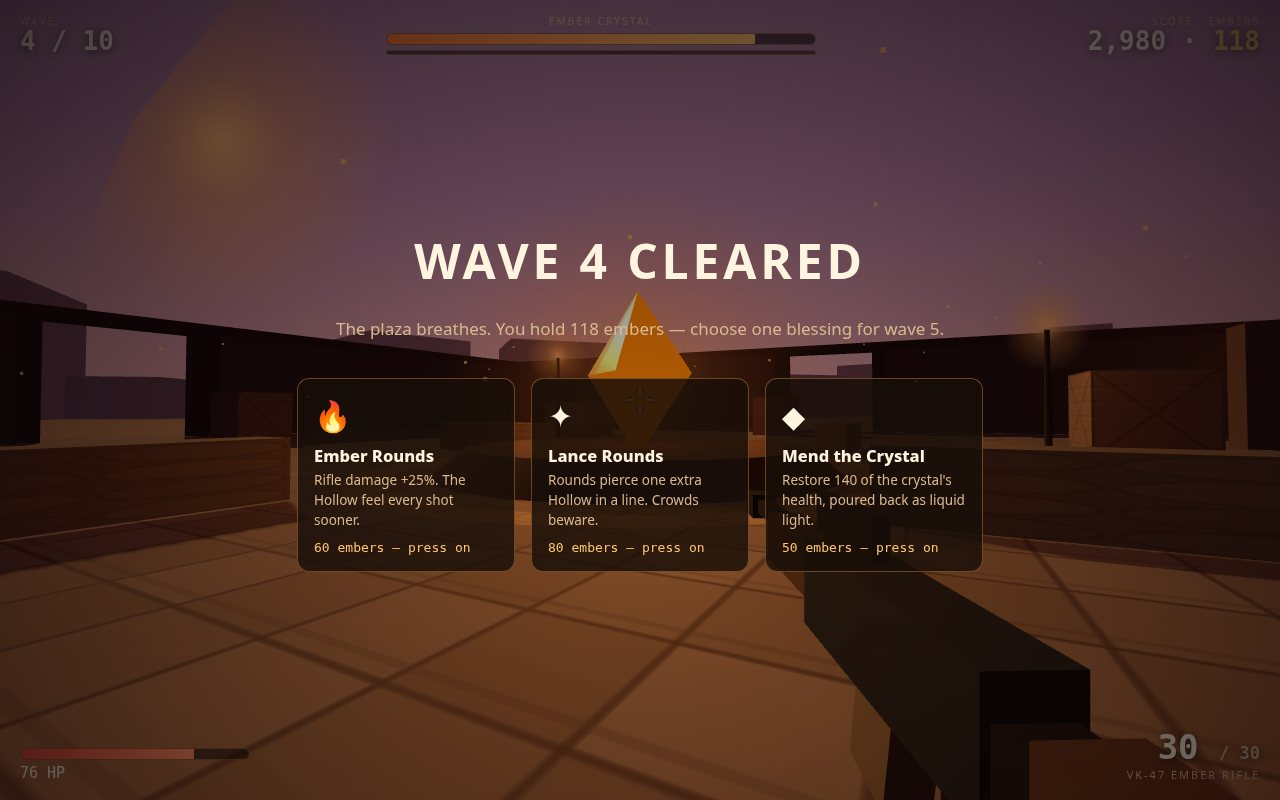
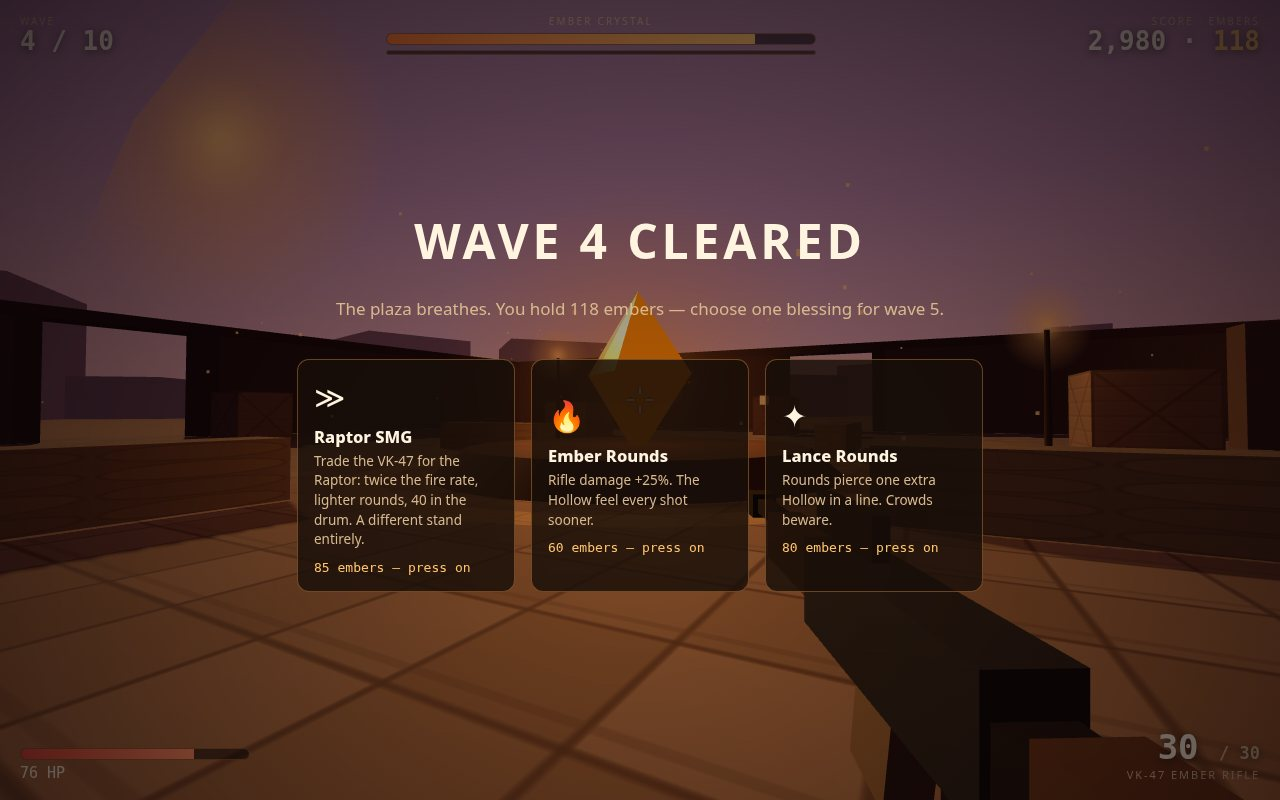
v2: the Hollow King boss in wave 10, the Raptor SMG draft trade, boss-fight cover

diff --git a/game/src/main.js b/game/src/main.js
@@ -119,7 +119,8 @@ function resolveShot() {
         hud.setScore(game.score, game.embers);
         sfx.kill();
         weapon.burst(_point, 14, 0xff7a30);
-        if (e.kind === 'brute') hud.feed(`Brute down — <b>+${paid} embers</b>`);
+        if (e.kind === 'king') { hud.feed(`👑 <b>THE HOLLOW KING FALLS — +${paid} embers</b>`); weapon.burst(_point, 30, 0xff7a30); }
+        else if (e.kind === 'brute') hud.feed(`Brute down — <b>+${paid} embers</b>`);
         scene.remove(e.group);
       } else {
         hud.hitmark(false);
@@ -140,6 +141,18 @@ const enemyCtx = {
   get solids() { return world.solids; },
   get enemies() { return game.enemies; },
   get time() { return game.time; },
+  summon(king) {
+    // The King's called husks join the wave properly: they count toward its total,
+    // so the wave cannot end while the court still stands.
+    for (const side of [-1, 1]) {
+      const at = king.group.position.clone();
+      at.x += side * 2.6; at.z += 1.2;
+      game.enemies.push(createHollow(scene, 'husk', at, game.hpScale));
+      game.waveTotal += 1;
+    }
+    if (!king.announced) { king.announced = true; hud.feed('👑 <b>The Hollow King calls his court!</b>'); }
+    sfx.horn();
+  },
   shootBolt(e, target) {
     const from = e.group.position.clone();
     from.y += 1.55 * e.def.scale;
@@ -182,7 +195,7 @@ function startWave(n) {
   enemyCtx.warned = false;
   hud.setWave(n, TOTAL_WAVES);
   hud.setWaveProgress(0);
-  hud.banner(`WAVE ${n}`, n === 1 ? 'The Hollow come through the gates. Hold the crystal.' : n === TOTAL_WAVES ? 'The last wave. Dawn is close.' : 'They return, angrier.', 2400);
+  hud.banner(`WAVE ${n}`, n === 1 ? 'The Hollow come through the gates. Hold the crystal.' : n === TOTAL_WAVES ? 'The Hollow King comes himself. End him, and dawn breaks.' : 'They return, angrier.', 2400);
   sfx.horn();
 }
 
@@ -195,7 +208,7 @@ function waveCleared() {
   game.mode = 'upgrade';
   sfx.cleared();
   document.exitPointerLock?.();
-  hud.showUpgrades(game.wave, draftUpgrades(3), game.embers, (u) => {
+  hud.showUpgrades(game.wave, draftUpgrades(3, weapon.kind === 'smg' ? new Set(['smg']) : new Set()), game.embers, (u) => {
     game.embers -= u.cost;
     u.apply({ player, weapon, crystal, game });
     hud.setScore(game.score, game.embers);
@@ -225,7 +238,7 @@ function resetGame() {
   clearBolts(scene);
   Object.assign(game, { wave: 0, score: 0, kills: 0, embers: 0, emberMultiplier: 1, spawnQueue: [], waveTotal: 0, waveKilled: 0 });
   crystal.hp = crystal.maxHp;
-  Object.assign(weapon.stats, { ...WEAPON_STATS });
+  weapon.swapTo('rifle'); // a fresh stand starts with the VK-47, blessings forgotten
   weapon.refill();
   player.reset();
   syncCrystal();
@@ -273,18 +286,20 @@ function poseShot(name) {
   }
   hud.showGame();
   if (name === 'cover') {
-    // Wave 3, mid-fight: the keeper south-east of the crystal, Hollow closing in, a
-    // round already on its way to the brute and a soldier's bolt answering.
-    player.pos.set(14.5, 0, 12.5);
-    player.setView(Math.PI * 0.25, -0.02);
-    const spots = [['brute', -4.5, -6], ['soldier', -1.5, -9.5], ['husk', 2.5, -5.5], ['husk', -7, -1], ['husk', 4.5, 3], ['soldier', 8, -5.5]];
+    // Wave 10, the finale: the keeper south-east of the crystal with the Raptor in
+    // hand, the Hollow King himself towering past the crystal with his court around
+    // him, a round already on its way and a soldier's bolt answering.
+    player.pos.set(12, 0, 8.5);
+    player.setView(Math.PI * 0.3, -0.02);
+    weapon.swapTo('smg');
+    const spots = [['king', -10, -3.5], ['brute', -14.5, -7], ['soldier', 0.5, -7.5], ['soldier', -4, -11.5], ['husk', 2.5, -2], ['husk', -5, -3]];
     for (const [kind, x, z] of spots) {
-      const e = createHollow(scene, kind, new THREE.Vector3(x, 0, z), 1.1);
+      const e = createHollow(scene, kind, new THREE.Vector3(x, 0, z), 1.5);
       e.riseT = 1; e.group.position.y = 0;
       e.group.rotation.y = Math.atan2(-x, -z);
       game.enemies.push(e);
     }
-    spawnBolt(scene, new THREE.Vector3(-1.5, 1.6, -9.5), new THREE.Vector3(-0.8, 2.2, -5));
+    spawnBolt(scene, new THREE.Vector3(3, 1.6, -6.5), new THREE.Vector3(1.2, 2.2, -3));
     // The frozen shot: a tracer stretched from the muzzle and the flash that made it,
     // parented to the camera so they sit exactly on the aim line.
     const tracer = new THREE.Mesh(new THREE.BoxGeometry(0.022, 0.022, 13), new THREE.MeshBasicMaterial({ color: 0xffc46b, transparent: true, opacity: .85 }));
@@ -294,14 +309,14 @@ function poseShot(name) {
     flashSpr.scale.setScalar(0.55);
     flashSpr.position.set(0.23, -0.17, -0.85);
     camera.add(flashSpr);
-    game.wave = 3;
-    hud.setWave(3, TOTAL_WAVES);
-    crystal.hp = 390; syncCrystal();
-    hud.setWaveProgress(0.45);
-    hud.setScore(1250, 64);
-    hud.setHp(82, 100);
-    hud.setAmmo(24, 30, false);
-    hud.feed('Brute down — <b>+25 embers</b>');
+    game.wave = 10;
+    hud.setWave(10, TOTAL_WAVES);
+    crystal.hp = 310; syncCrystal();
+    hud.setWaveProgress(0.72);
+    hud.setScore(7900, 214);
+    hud.setHp(68, 100);
+    hud.setAmmo(31, 40, false);
+    hud.feed('👑 <b>The Hollow King calls his court!</b>');
   } else if (name === 'upgrade') {
     player.pos.set(7, 0, 13);
     player.setView(0.49, 0.02);
@@ -311,7 +326,7 @@ function poseShot(name) {
     hud.setScore(2980, 118);
     hud.setHp(76, 100);
     hud.setAmmo(30, 30, false);
-    hud.showUpgrades(4, [UPGRADES[0], UPGRADES[3], UPGRADES[4]], 118, () => {});
+    hud.showUpgrades(4, [UPGRADES[9], UPGRADES[0], UPGRADES[3]], 118, () => {});
   } else if (name === 'end') {
     player.pos.set(6, 0, 12);
     player.setView(0.46, 0.03);

diff --git a/game/src/enemies.js b/game/src/enemies.js
@@ -9,6 +9,7 @@ export const HOLLOW_TYPES = {
   husk: { hp: 40, speed: 4.7, radius: 0.5, scale: 0.92, crystalDamage: 6, playerDamage: 8, attackTime: 0.9, embers: 6, score: 50, ranged: 0 },
   soldier: { hp: 90, speed: 3.1, radius: 0.55, scale: 1.0, crystalDamage: 5, playerDamage: 7, attackTime: 2.2, embers: 10, score: 100, ranged: 15 },
   brute: { hp: 380, speed: 1.75, radius: 0.95, scale: 1.62, crystalDamage: 22, playerDamage: 18, attackTime: 1.5, embers: 25, score: 300, ranged: 0 },
+  king: { hp: 2400, speed: 1.45, radius: 1.5, scale: 2.6, crystalDamage: 40, playerDamage: 26, attackTime: 1.6, embers: 150, score: 1500, ranged: 20 },
 };
 
 const bodyMat = new THREE.MeshStandardMaterial({ color: 0x4a3548, roughness: .92, emissive: 0x140a10 });
@@ -45,7 +46,7 @@ function buildBody(kind) {
     box(g, 0.3, 1.12, 0.34, 0.09, 0.09, 0.62, boneMat); // ember lance, held forward
     box(g, -0.18, 0.33, 0, 0.17, 0.66, 0.19, clothMat);
     box(g, 0.18, 0.33, 0, 0.17, 0.66, 0.19, clothMat);
-  } else {
+  } else if (kind === 'brute') {
     box(g, 0, 1.12, 0, 1.24, 1.1, 0.62, bodyMat); // brute: a wall of a torso
     box(g, 0, 1.92, 0, 0.46, 0.44, 0.46, boneMat);
     box(g, -0.3, 2.2, 0, 0.09, 0.42, 0.09, boneMat).rotation.z = 0.5; // horns
@@ -54,13 +55,25 @@ function buildBody(kind) {
     box(g, 0.78, 0.95, 0, 0.24, 1.15, 0.24, bodyMat);
     box(g, -0.3, 0.36, 0, 0.26, 0.72, 0.28, clothMat);
     box(g, 0.3, 0.36, 0, 0.26, 0.72, 0.28, clothMat);
+  } else {
+    // The Hollow King: a brute's bulk crowned in bone spikes, pauldrons like gate
+    // towers, and a heart-core big enough to aim at from across the plaza.
+    box(g, 0, 1.12, 0, 1.34, 1.18, 0.68, bodyMat);
+    box(g, 0, 1.94, 0, 0.5, 0.48, 0.5, boneMat);
+    for (let i = -2; i <= 2; i++) box(g, i * 0.14, 2.32, 0, 0.07, 0.34 + (2 - Math.abs(i)) * 0.09, 0.07, boneMat).rotation.z = -i * 0.16; // the crown
+    box(g, -0.86, 1.52, 0, 0.34, 0.3, 0.5, clothMat); // pauldrons
+    box(g, 0.86, 1.52, 0, 0.34, 0.3, 0.5, clothMat);
+    box(g, -0.84, 0.92, 0, 0.26, 1.3, 0.26, bodyMat);
+    box(g, 0.84, 0.92, 0, 0.26, 1.3, 0.26, bodyMat);
+    box(g, -0.32, 0.36, 0, 0.28, 0.72, 0.3, clothMat);
+    box(g, 0.32, 0.36, 0, 0.28, 0.72, 0.3, clothMat);
   }
-  const core = new THREE.Mesh(new THREE.OctahedronGeometry(kind === 'brute' ? 0.3 : 0.19), coreMat);
-  core.position.set(0, kind === 'husk' ? 1.08 : 1.14, 0.24);
+  const core = new THREE.Mesh(new THREE.OctahedronGeometry(kind === 'king' ? 0.36 : kind === 'brute' ? 0.3 : 0.19), coreMat);
+  core.position.set(0, kind === 'husk' ? 1.08 : 1.14, kind === 'king' ? 0.38 : 0.24);
   g.add(core);
   for (const sx of [-0.08, 0.08]) {
     const eye = new THREE.Mesh(new THREE.BoxGeometry(0.045, 0.045, 0.02), eyeMat);
-    eye.position.set(sx * (kind === 'brute' ? 1.6 : 1), kind === 'husk' ? 1.36 : kind === 'brute' ? 1.98 : 1.74, kind === 'husk' ? 0.49 : 0.2);
+    eye.position.set(sx * (kind === 'king' ? 1.9 : kind === 'brute' ? 1.6 : 1), kind === 'husk' ? 1.36 : kind === 'king' ? 2.0 : kind === 'brute' ? 1.98 : 1.74, kind === 'husk' ? 0.49 : kind === 'king' ? 0.26 : 0.2);
     g.add(eye);
   }
   g.scale.setScalar(s);
@@ -81,11 +94,12 @@ export function createHollow(scene, kind, at, hpScale = 1) {
     kind, def, group, hp, maxHp: hp, alive: true,
     radius: def.radius, speed: def.speed * (0.92 + Math.random() * 0.16),
     attackCd: 0.6 + Math.random() * 0.6, riseT: 0, wobble: Math.random() * 9,
+    summonCd: 5, announced: false, // the King's court: he calls husks to him
     // Ray test against body and head spheres; returns {t, head} or null.
     hitTest(origin, dir) {
       const s = def.scale;
       let best = null;
-      for (const [cy, r, head] of [[1.02 * s, 0.66 * s, false], [(kind === 'brute' ? 1.95 : kind === 'husk' ? 1.34 : 1.7) * s, 0.36 * s, true]]) {
+      for (const [cy, r, head] of [[1.02 * s, 0.66 * s, false], [(kind === 'king' ? 1.97 : kind === 'brute' ? 1.95 : kind === 'husk' ? 1.34 : 1.7) * s, 0.36 * s, true]]) {
         _v.set(group.position.x, group.position.y + cy, group.position.z).sub(origin);
         const t = _v.dot(dir);
         if (t < 0.5) continue;
@@ -104,6 +118,15 @@ export function createHollow(scene, kind, at, hpScale = 1) {
         return;
       }
       const p = group.position;
+      // The King does not fight alone: every few seconds he calls two husks out of
+      // the stones beside him, so wearing him down is a race against his court.
+      if (kind === 'king') {
+        this.summonCd -= dt;
+        if (this.summonCd <= 0 && ctx.enemies.length < 14) {
+          this.summonCd = 7;
+          ctx.summon(this);
+        }
+      }
       // Choose a victim: the keeper, if close; otherwise the crystal.
       const toPlayer = Math.hypot(ctx.playerPos.x - p.x, ctx.playerPos.z - p.z);
       const huntPlayer = toPlayer < 10.5;

diff --git a/game/src/weapon.js b/game/src/weapon.js
@@ -12,6 +12,14 @@ export const WEAPON_STATS = {
   pierce: 0, // extra targets a round passes through, from the Piercing upgrade
 };
 
+// The keeper's two stands: the VK-47 rifle he starts with, and the Raptor SMG the
+// draft can trade it for — lighter rounds twice as fast, a drum that holds 40, and
+// a shorter barrel with a fatter magazine so the swap reads in the viewmodel too.
+export const WEAPON_KINDS = {
+  rifle: { ...WEAPON_STATS },
+  smg: { damage: 19, headshotMultiplier: 2, fireInterval: 0.062, magSize: 40, reloadTime: 1.6, pierce: 0 },
+};
+
 function box(parent, x, y, z, w, h, d, mat) {
   const m = new THREE.Mesh(new THREE.BoxGeometry(w, h, d), mat);
   m.position.set(x, y, z);
@@ -35,9 +43,9 @@ export function createWeapon(camera, scene) {
   const ember = new THREE.MeshBasicMaterial({ color: 0xffa030 });
   box(gun, 0, 0, -0.18, 0.075, 0.11, 0.34, steel); // receiver
   box(gun, 0, -0.045, -0.02, 0.06, 0.13, 0.09, steelDark); // grip
-  box(gun, 0.005, -0.085, -0.2, 0.05, 0.16, 0.075, tan).rotation.x = 0.18; // magazine
+  const magMesh = box(gun, 0.005, -0.085, -0.2, 0.05, 0.16, 0.075, tan); magMesh.rotation.x = 0.18; // magazine
   box(gun, 0, 0.005, -0.44, 0.055, 0.075, 0.24, wood); // handguard
-  box(gun, 0, 0.028, -0.6, 0.026, 0.026, 0.2, steelDark); // barrel
+  const barrelMesh = box(gun, 0, 0.028, -0.6, 0.026, 0.026, 0.2, steelDark); // barrel
   box(gun, 0, 0.028, -0.71, 0.045, 0.045, 0.05, steelDark); // muzzle brake
   box(gun, 0, -0.01, 0.09, 0.07, 0.09, 0.12, wood); // stock
   box(gun, 0, 0.085, -0.3, 0.02, 0.05, 0.16, steelDark); // rear sight rail
@@ -91,8 +99,24 @@ export function createWeapon(camera, scene) {
 
   const muzzleWorld = new THREE.Vector3();
 
+  let kind = 'rifle';
   return {
     stats,
+    get kind() { return kind; },
+    // Trade stands: the new weapon's stats replace the old one's wholesale (draft
+    // blessings bought for the old gun stay with it), the drum comes loaded, and
+    // the viewmodel reshapes — snub barrel and drum mag for the Raptor.
+    swapTo(next) {
+      kind = next;
+      Object.assign(stats, WEAPON_KINDS[next]);
+      ammo = stats.magSize;
+      reloadingUntil = 0;
+      const label = document.getElementById('weapon-name');
+      if (label) label.textContent = next === 'smg' ? 'Raptor SMG' : 'VK-47 Ember Rifle';
+      barrelMesh.scale.z = next === 'smg' ? 0.5 : 1;
+      barrelMesh.position.z = next === 'smg' ? -0.55 : -0.6;
+      magMesh.scale.set(next === 'smg' ? 1.5 : 1, next === 'smg' ? 1.35 : 1, 1.3);
+    },
     get ammo() { return ammo; },
     get reloading() { return performance.now() / 1000 < reloadingUntil; },
     setTrigger(held) { triggerHeld = held; },

diff --git a/game/src/waves.js b/game/src/waves.js
@@ -12,7 +12,7 @@ export const WAVE_PLAN = [
   { husk: 22, soldier: 10, brute: 2, interval: 0.95 },
   { husk: 24, soldier: 12, brute: 3, interval: 0.9 },
   { husk: 28, soldier: 14, brute: 3, interval: 0.82 },
-  { husk: 32, soldier: 16, brute: 4, interval: 0.75 },
+  { husk: 30, soldier: 14, brute: 3, king: 1, interval: 0.8 },
 ];
 export const TOTAL_WAVES = WAVE_PLAN.length;
 
@@ -32,6 +32,9 @@ export function waveComposition(wave) {
     const [b] = list.splice(firstBrute, 1);
     list.splice(5 + Math.floor(Math.random() * 4), 0, b);
   }
+  // The Hollow King never queues with the rabble: he walks in last, when the wave
+  // is thinned and the keeper is tired — the finale the whole night builds toward.
+  if (plan.king) list.push('king');
   return { list, total: list.length, interval: plan.interval, hpScale: 1 + (wave - 1) * 0.06 };
 }
 
@@ -45,10 +48,11 @@ export const UPGRADES = [
   { id: 'speed', glyph: '➤', name: 'Dusk Striders', cost: 40, desc: 'Move 12% faster. The plaza feels smaller already.', apply: ({ player }) => { player.addSpeed(0.12); } },
   { id: 'siphon', glyph: '◎', name: 'Ember Siphon', cost: 55, desc: 'Every kill pays 50% more embers, rounded up with interest.', apply: ({ game }) => { game.emberMultiplier *= 1.5; } },
   { id: 'wind', glyph: '✚', name: 'Second Wind', cost: 35, desc: 'Catch your breath: heal 60 health immediately.', apply: ({ player }) => { player.heal(60); } },
+  { id: 'smg', glyph: '≫', name: 'Raptor SMG', cost: 85, desc: 'Trade the VK-47 for the Raptor: twice the fire rate, lighter rounds, 40 in the drum. A different stand entirely.', apply: ({ weapon }) => { weapon.swapTo('smg'); } },
 ];
 
-export function draftUpgrades(count = 3) {
-  const pool = [...UPGRADES];
+export function draftUpgrades(count = 3, exclude = new Set()) {
+  const pool = UPGRADES.filter((u) => !exclude.has(u.id));
   const picked = [];
   while (picked.length < count && pool.length) {
     picked.push(pool.splice(Math.floor(Math.random() * pool.length), 1)[0]);

diff --git a/README.md b/README.md
@@ -10,8 +10,11 @@ serve the `game/` folder statically and open `index.html`.
 
 At dusk the Hollow pour through the four gates of a desert plaza to drink the last
 Ember Crystal dry. You are its keeper: ten waves of husks, soldiers and brutes, an
-ember purse filled by every kill, and a draft of three upgrades between waves.
-Clear wave 10 and dawn breaks. Let the crystal — or yourself — fall, and the light goes out.
+ember purse filled by every kill, and a draft of three upgrades between waves — one
+of them trades your rifle for the Raptor SMG and changes the whole stand. In wave 10
+the Hollow King walks in himself, crowned in bone, calling husks out of the stones
+while he volleys ember bolts at the crystal. Kill him and dawn breaks. Let the
+crystal — or yourself — fall, and the light goes out.
 
 **Controls.** WASD move · mouse aim · click fire · R reload · Shift sprint.
 
